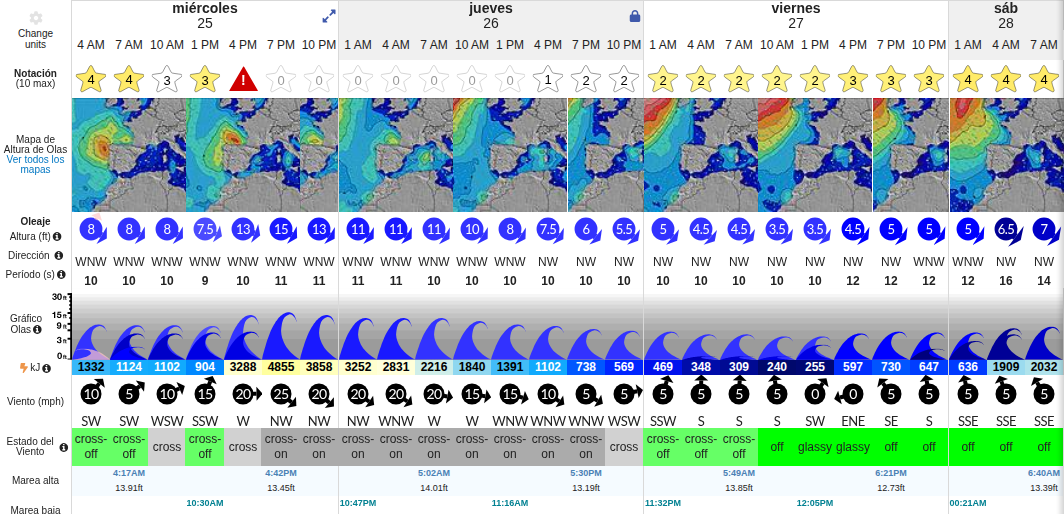
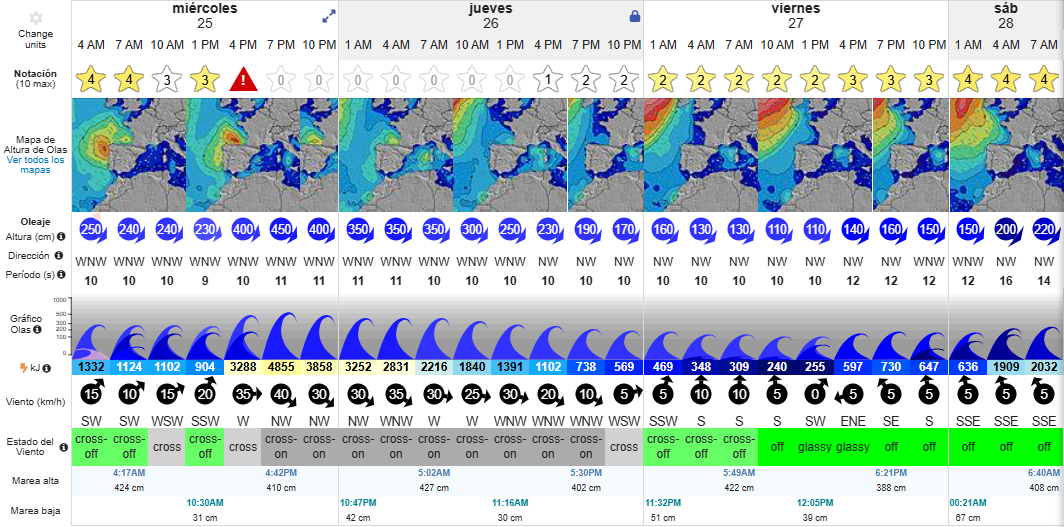
Añadir icono móvil, euskera y unidades métricas

diff --git a/index.html b/index.html
@@ -1,27 +1,30 @@
 <!doctype html>
-<html lang="es">
+<html lang="eu">
   <head>
     <meta charset="utf-8" />
     <meta name="viewport" content="width=device-width, initial-scale=1" />
     <meta name="theme-color" content="#061c2e" />
-    <title>Donostia · Condiciones de mar</title>
+    <title>MeteoMario · Itsas iragarpena</title>
+    <link rel="manifest" href="manifest.webmanifest" />
+    <link rel="icon" type="image/png" sizes="192x192" href="assets/meteomario-icon-192.png" />
+    <link rel="apple-touch-icon" sizes="180x180" href="assets/meteomario-icon-180.png" />
     <link rel="stylesheet" href="styles.css?v=avatar-80" />
   </head>
   <body>
     <main class="dashboard">
       <header class="hero">
-        <p class="eyebrow">DONOSTIA · MAR Y SURF</p>
+        <p class="eyebrow">DONOSTIA · ITSASOA ETA SURFA</p>
         <div class="brand-title">
           <h1>MeteoMario</h1>
-          <img src="assets/meteomario-mosaic.png" alt="MeteoMario saludando" />
+          <img src="assets/meteomario-mosaic.png" alt="" />
         </div>
-        <p class="updated" id="dashboard-updated">Cargando última actualización…</p>
+        <p class="updated" id="dashboard-updated">Azken eguneratzea kargatzen…</p>
       </header>
 
       <section aria-labelledby="webcams-title">
         <div class="section-heading">
-          <h2 id="webcams-title">Webcams en directo</h2>
-          <span class="live"><i></i> EN DIRECTO</span>
+          <h2 id="webcams-title">Zuzeneko kamerak</h2>
+          <span class="live"><i></i> ZUZENEAN</span>
         </div>
         <div class="webcam-grid">
           <article class="webcam-card">
@@ -36,31 +39,31 @@
       </section>
 
       <section aria-labelledby="mareas-title">
-        <div class="section-heading"><h2 id="mareas-title">Mareas</h2><span>San Sebastián</span></div>
+        <div class="section-heading"><h2 id="mareas-title">Mareak</h2><span>Donostia</span></div>
         <div class="capture-grid capture-grid--tides">
-          <article class="capture-card"><img src="assets/captures/tide-status.png" alt="Estado actual de la marea" /></article>
-          <article class="capture-card capture-card--wide"><img src="assets/captures/tide-chart.png" alt="Gráfica diaria de mareas" /></article>
-          <article class="capture-card capture-card--wide"><img src="assets/captures/tide-coefficient.png" alt="Coeficiente de mareas" /></article>
+          <article class="capture-card"><img src="assets/captures/tide-status.png" alt="Marearen uneko egoera" /></article>
+          <article class="capture-card capture-card--wide"><img src="assets/captures/tide-chart.png" alt="Eguneko mareen grafikoa" /></article>
+          <article class="capture-card capture-card--wide"><img src="assets/captures/tide-coefficient.png" alt="Marea-koefizientea" /></article>
         </div>
       </section>
 
       <section aria-labelledby="windguru-title">
-        <div class="section-heading"><h2 id="windguru-title">Viento y mar</h2><span>Windguru · Zurriola</span></div>
-        <article class="capture-card capture-card--scroll"><img src="assets/captures/windguru.png" alt="Previsión de viento, olas y mareas de Windguru" /></article>
+        <div class="section-heading"><h2 id="windguru-title">Haizea eta itsasoa</h2><span>Windguru · Zurriola</span></div>
+        <article class="capture-card capture-card--scroll"><img src="assets/captures/windguru.png" alt="Windgururen haizearen, olatuen eta mareen iragarpena" /></article>
       </section>
 
       <section aria-labelledby="surf-title">
         <div class="section-heading section-heading--surf">
-          <div><h2 id="surf-title">Previsión de surf</h2><span>Zurriola</span></div>
-          <div class="surf-switch" role="group" aria-label="Tipo de previsión de surf">
-            <button type="button" data-surf-mode="sixDay">16 Días</button>
-            <button type="button" data-surf-mode="hourly" class="is-active">Cada hora</button>
+          <div><h2 id="surf-title">Surf-iragarpena</h2><span>Zurriola</span></div>
+          <div class="surf-switch" role="group" aria-label="Surf-iragarpen mota">
+            <button type="button" data-surf-mode="sixDay" aria-pressed="false">16 egun</button>
+            <button type="button" data-surf-mode="hourly" aria-pressed="true" class="is-active">Orduro</button>
           </div>
         </div>
-        <article class="capture-card capture-card--scroll"><img id="surf-forecast-image" src="assets/captures/surf-hourly.png" data-hourly="assets/captures/surf-hourly.png" data-six-day="assets/captures/surf-six-day.png" alt="Previsión horaria de surf de Zurriola" /></article>
+        <article class="capture-card capture-card--scroll"><img id="surf-forecast-image" src="assets/captures/surf-hourly.png" data-hourly="assets/captures/surf-hourly.png" data-six-day="assets/captures/surf-six-day.png" alt="Zurriolako orduz orduko surf-iragarpena" /></article>
       </section>
     </main>
     <script src="https://cdn.jsdelivr.net/npm/hls.js@1"></script>
-    <script src="app.js?v=webcam-retry"></script>
+    <script src="app.js?v=eu"></script>
   </body>
 </html>

diff --git a/app.js b/app.js
@@ -13,22 +13,31 @@ function setSurfForecast(mode) {
   if (!surfImage) return;
   const source = mode === 'sixDay' ? surfImage.dataset.sixDay : surfImage.dataset.hourly;
   surfImage.src = versionedUrl(source);
-  surfImage.alt = mode === 'sixDay' ? 'Previsión de surf de 16 días de Zurriola' : 'Previsión horaria de surf de Zurriola';
-  surfButtons.forEach((button) => button.classList.toggle('is-active', button.dataset.surfMode === mode));
+  surfImage.alt = mode === 'sixDay' ? 'Zurriolako 16 eguneko surf-iragarpena' : 'Zurriolako orduz orduko surf-iragarpena';
+  surfButtons.forEach((button) => {
+    const active = button.dataset.surfMode === mode;
+    button.classList.toggle('is-active', active);
+    button.setAttribute('aria-pressed', String(active));
+  });
 }
 
 async function loadStatus() {
   try {
     const response = await fetch('assets/captures/status.json', { cache: 'no-store' });
     const { updatedAt } = await response.json();
-    captureVersion = new Date(updatedAt).getTime();
-    status.textContent = `Actualizado: ${new Intl.DateTimeFormat('es-ES', { dateStyle: 'medium', timeStyle: 'short' }).format(new Date(updatedAt))}`;
+    const date = new Date(updatedAt);
+    if (!response.ok || !updatedAt || !Number.isFinite(date.getTime())) throw new Error();
+    captureVersion = date.getTime();
+    const formatted = new Intl.DateTimeFormat('eu-ES', {
+      dateStyle: 'medium', timeStyle: 'short', timeZone: 'Europe/Madrid',
+    }).format(date);
+    status.textContent = `Azken eguneratzea: ${formatted}`;
     document.querySelectorAll('.capture-card img').forEach((image) => {
       if (image !== surfImage) image.src = versionedUrl(image.getAttribute('src'));
     });
     setSurfForecast(document.querySelector('[data-surf-mode].is-active')?.dataset.surfMode ?? 'hourly');
   } catch {
-    status.textContent = 'Pendiente de la primera actualización';
+    status.textContent = 'Lehen eguneratzearen zain';
   }
 }
 
